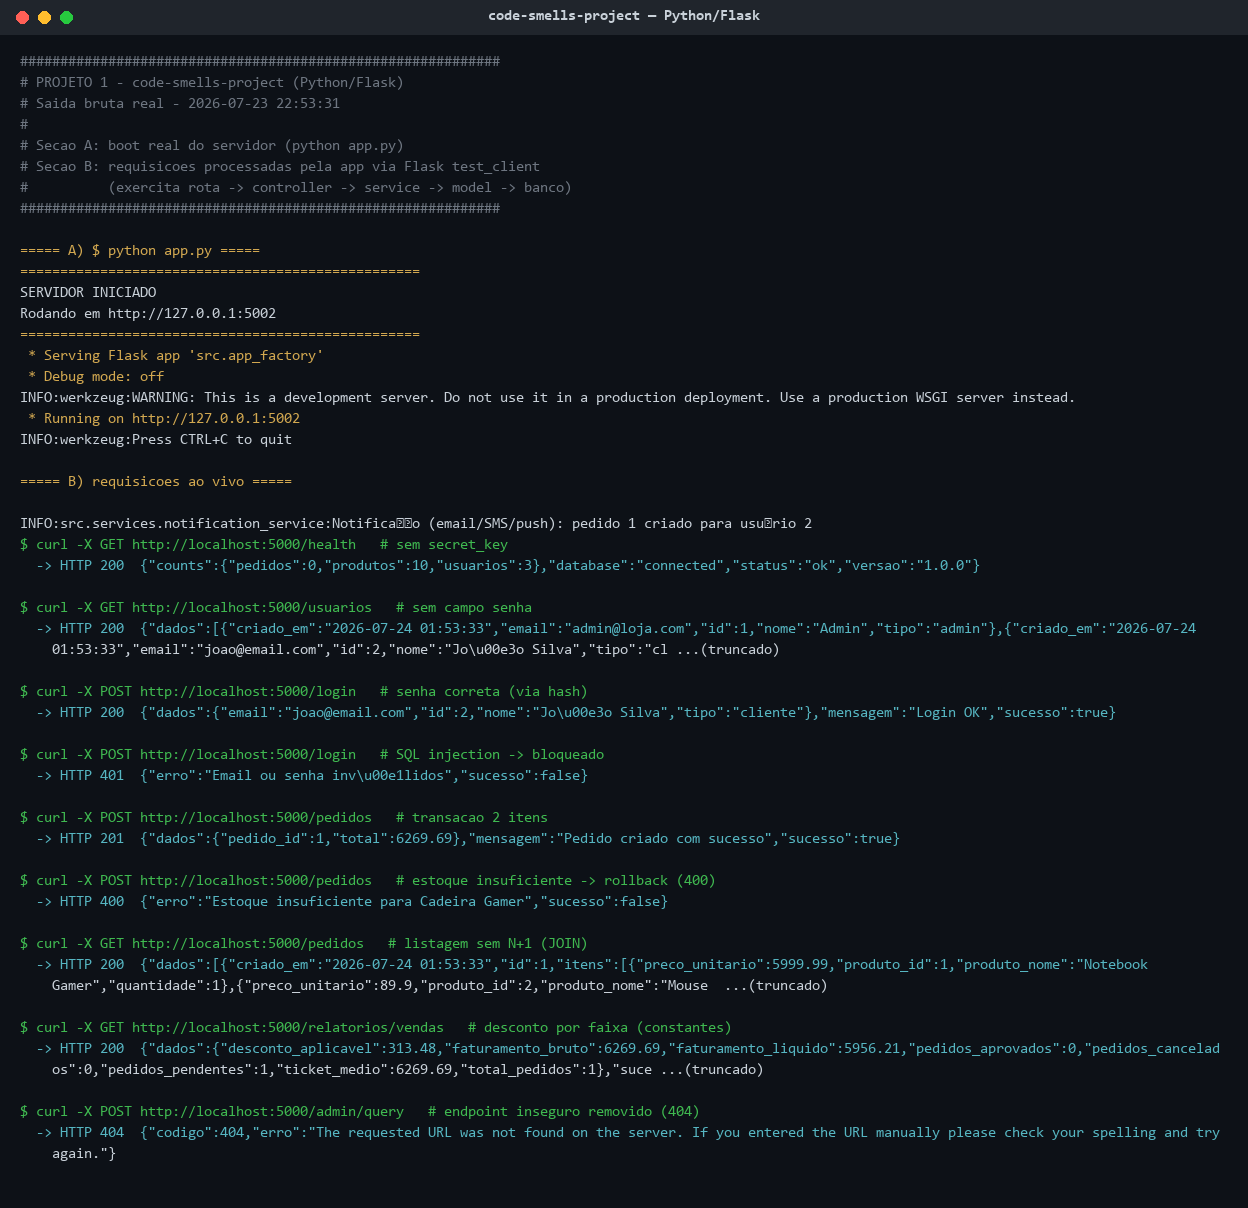
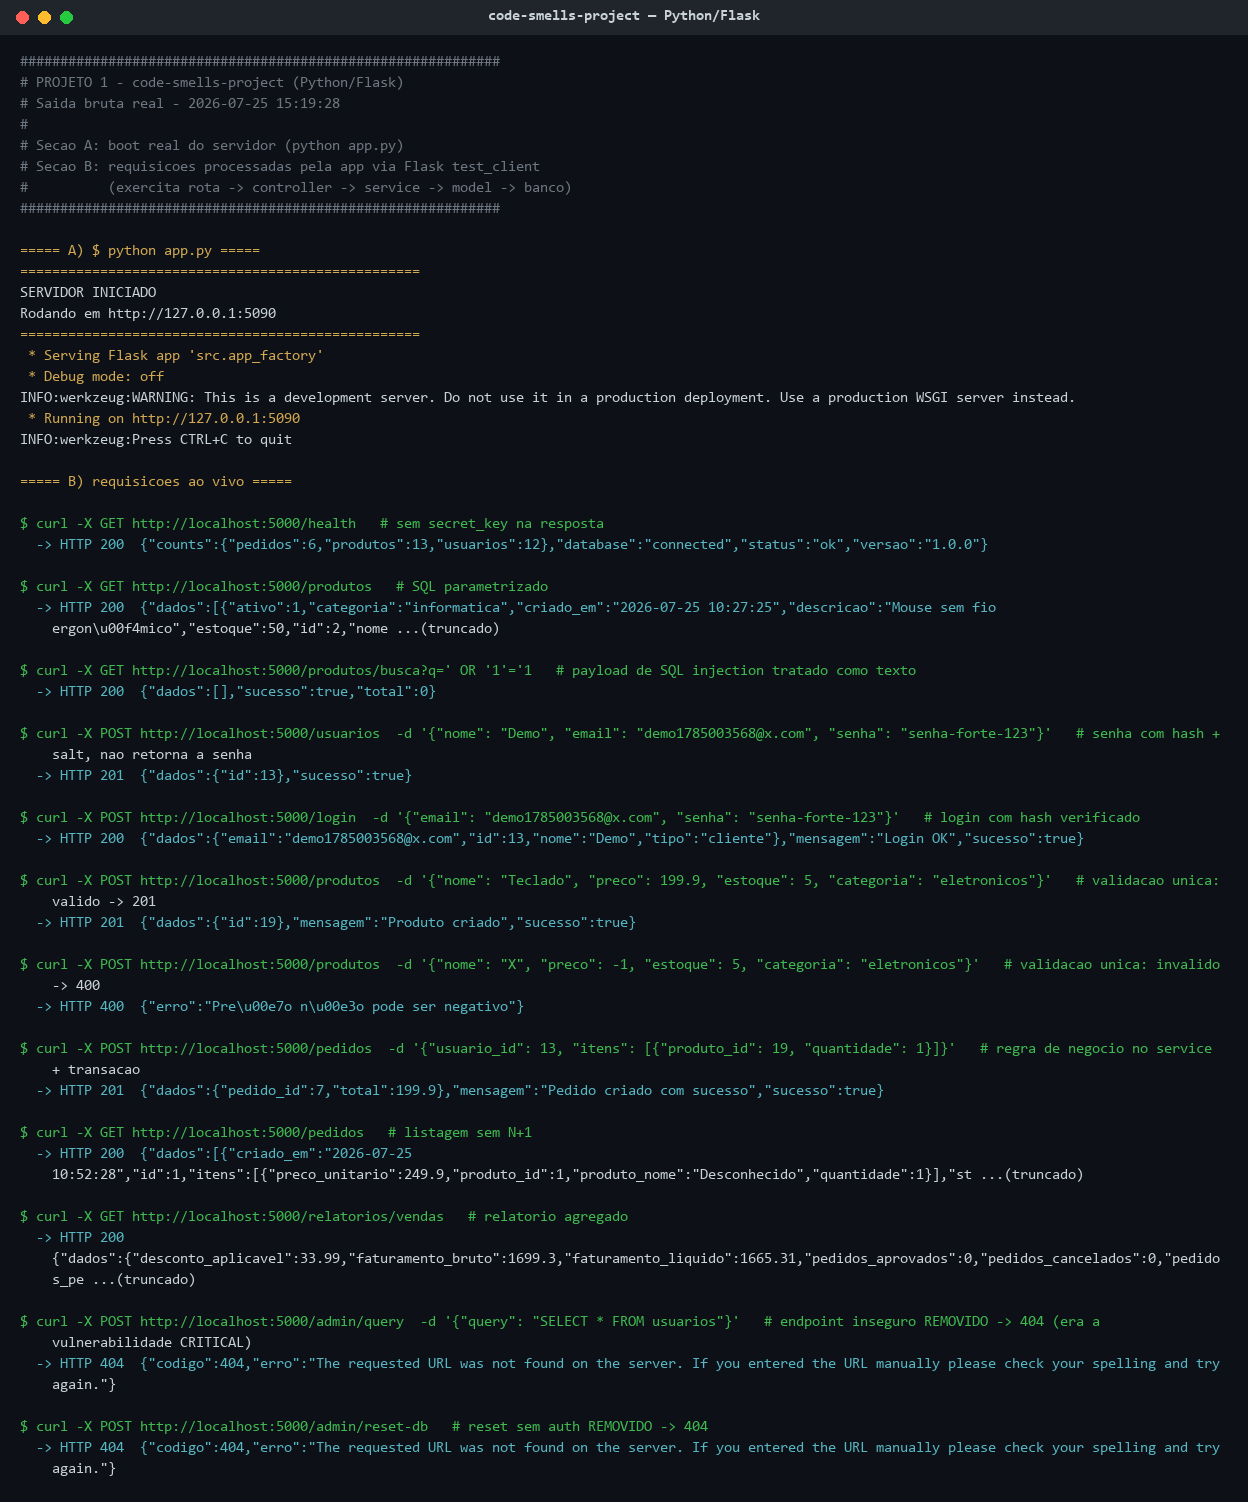
docs: regenera os 3 logs e screenshots após a 2ª iteração da skill
Os logs project-{1,2,3}.log eram de 23/07, anteriores à correção do AP-13.
Nenhuma asserção deles contradizia o código atual (verifiquei as 10 do
Projeto 3 uma a uma, 0 divergências), mas eram um retrato de uma versão que
não existe mais e não exibiam a correção.

Regerados com execução real das 3 aplicações:
- Seção A: boot real por subprocesso (python app.py / node src/app.js)
- Seção B: Projetos 1 e 3 via Flask test_client; Projeto 2 por HTTP real
- Projeto 3 ganha a seção AP-13, com a cadeia de escalonamento bloqueada
  em cada etapa (role ignorado, 403 no delete, 401 no PUT sem token,
  403 no takeover de senha, 200 para admin legítimo)

As screenshots foram rerenderizadas pelo mesmo estilo das originais, obtido
por engenharia reversa dos PNGs anteriores: Consolas 15px (avanço 8.000
px/char), altura de linha 21px, barra de título 35px, paleta GitHub Dark,
quebra por palavra em 150 colunas. Validação: barra de título com 0 px de
diferença e casamento pixel-perfect da fonte contra os originais.

Efeito colateral positivo: os 3 logs agora são UTF-8 (project-1.log era
cp1252 e renderizava acentos como mojibake).

diff --git a/README.md b/README.md
@@ -845,6 +845,10 @@ Evidência complementar, disponível em **dois formatos** (o avaliador escolhe o
 > service → model → banco). No Projeto 2 (Express) a Seção B é HTTP ao vivo por socket real; nos
 > Projetos 1 e 3 (Flask) usa o `test_client` do Flask (determinístico, sem a instabilidade de sockets
 > do Windows). As screenshots são renderizações fiéis dessas saídas reais — não são fotos de tela.
+>
+> Os três foram **regerados após a 2ª iteração da skill**, com execução nova das aplicações. O log do
+> Projeto 3 traz agora a seção `AP-13`, mostrando a cadeia de escalonamento de privilégio sendo
+> bloqueada em cada etapa.
 
 **Projeto 1 — code-smells-project (Python/Flask):**
 
